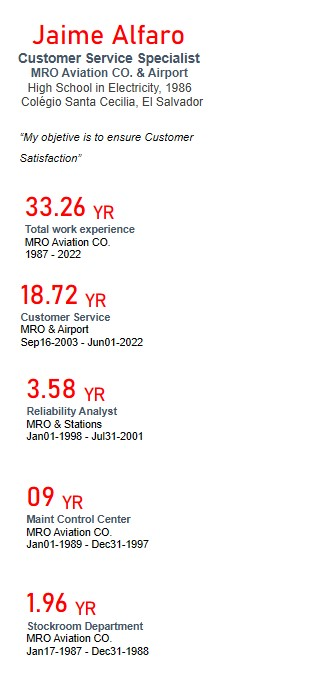
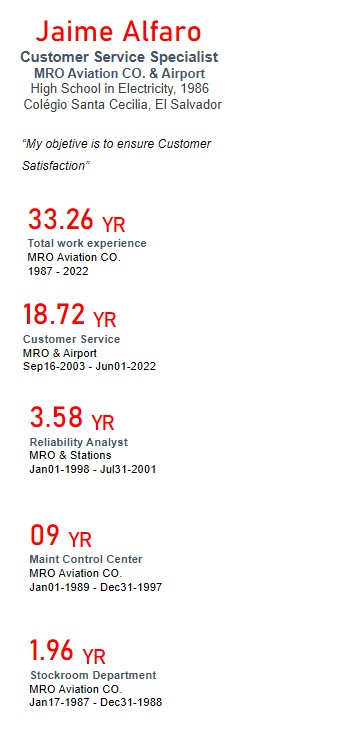
Add files via upload

diff --git a/index.html b/index.html
@@ -62,11 +62,11 @@ li a:hover:not(.active) {
 
 			
 	
-		<li><a class="active" href="">J A A A</a></li>
+		<li><a class="active" href="">JAAA</a></li>
 		<li><a href="https://shortcvs.github.io/jalfarocv/EN-CV.pdf">RESUME</a></li>
 		<!-- <li><a href="https://shortcvs.github.io/jalfarocv/999-CV.pdf">CV - SPANISH</a></li>-->
 		<li><a href="https://shortcvs.github.io/jalfarocv/CERTIFICATES.html">CERTIFICATES </a></li>
-		
+		<li><a href="https://shortcvs.github.io/jalfarocv/CERTIFICATES.html">X </a></li>
  
 		</ul>
 
